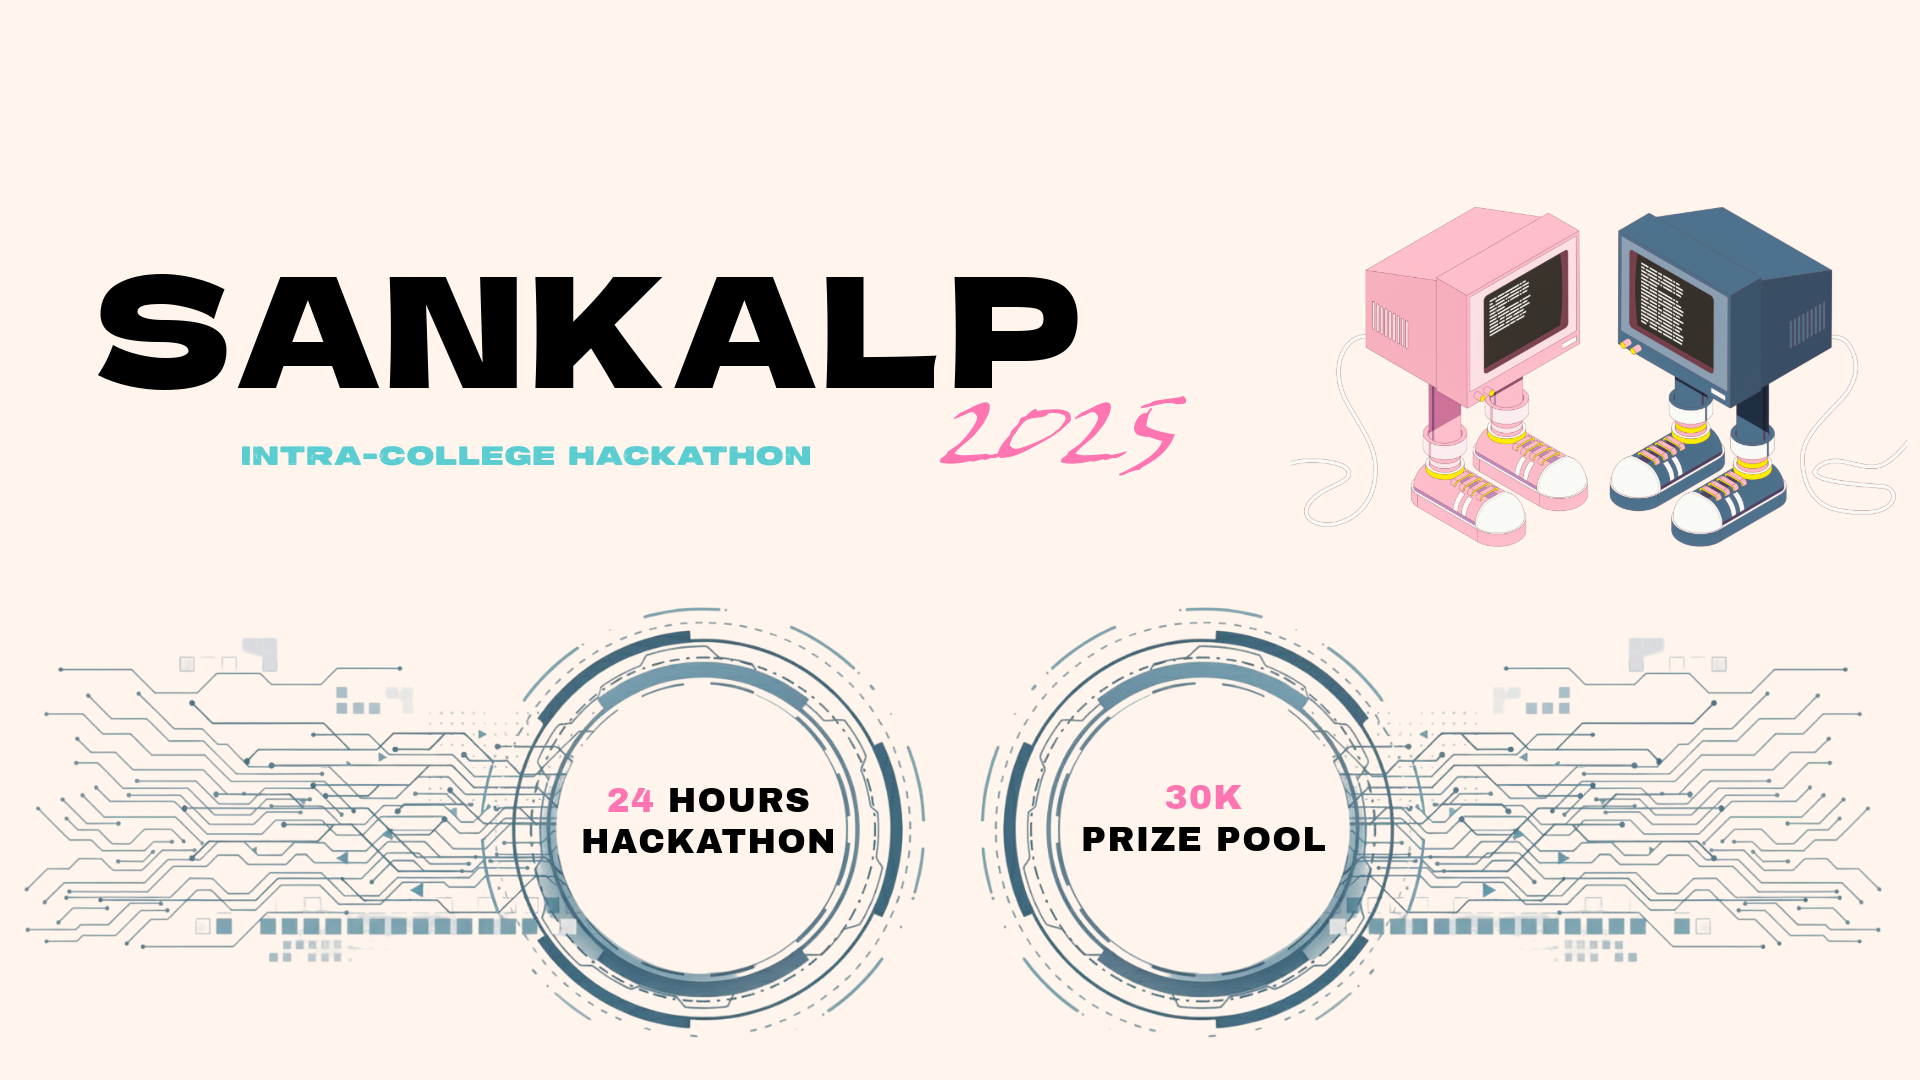
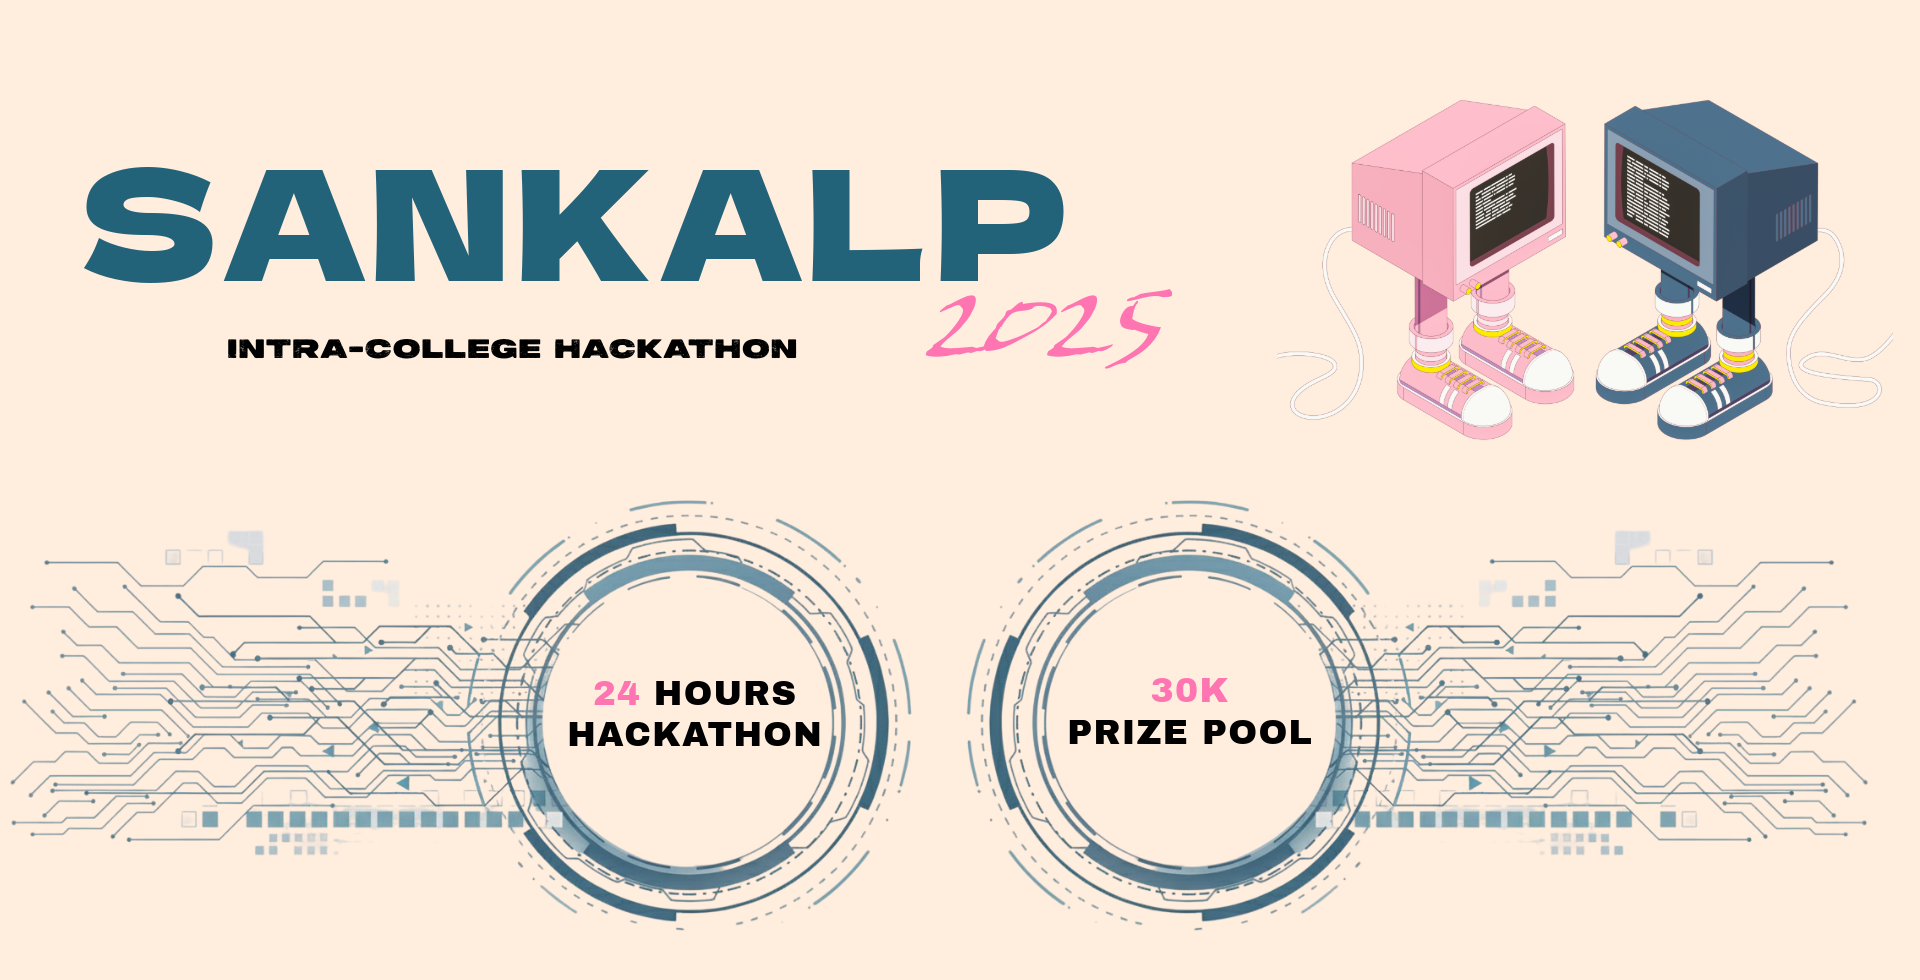
My local changes before merging remote

diff --git a/src/components/landing/about/index.tsx b/src/components/landing/about/index.tsx
@@ -68,8 +68,9 @@ const TextReveal: React.FC = () => {
 
     // SCROLL TRIGGER SETUP
     animeTextContainersRef.current.forEach((container, index) => {
-      const isMobile = window.innerWidth < 768;
-      const scrollMultiplier = 0.5; // Even faster animation for all devices
+  const isMobile = window.innerWidth < 768;
+  // Slower animation for all devices
+  const scrollMultiplier = 1.5;
       ScrollTrigger.create({
         trigger: container,
         pin: container,
@@ -205,8 +206,8 @@ const TextReveal: React.FC = () => {
         ref={aboutRef}
   className="about anime-text-container bg-[#141414] text-black relative w-full h-full min-h-[90vh] lg:min-h-[100vh] p-3 sm:p-4 md:p-6 lg:p-8 overflow-x-hidden"
       >
-        <div className="w-full h-full flex flex-col justify-center items-center text-center rounded-lg sm:rounded-xl md:rounded-2xl lg:rounded-3xl border border-dashed border-[rgb(60,60,60)] p-4 sm:p-6 md:p-8 mt-12 md:mt-16 lg:mt-40 lg:mb-60">
-          <h1 className="text-white mb-2 sm:mb-8 md:mb-12 lg:mb-16 font-black leading-tight px-2 text-[clamp(1.5rem,2vw,1.6rem)] sm:text-[clamp(1.2rem,1.5vw,1.8rem)] md:text-[clamp(1.3rem,2.9vw,3.5rem)]">
+  <div className="w-full h-full flex flex-col justify-center items-center text-center rounded-lg sm:rounded-xl md:rounded-2xl lg:rounded-3xl border border-dashed border-[rgb(60,60,60)] p-4 sm:p-6 md:p-8 mt-0 -mt-8 md:mt-16 lg:mt-40 lg:mb-60">
+          <h1 className="text-white mb-2 sm:mb-8 md:mb-12 lg:mb-16 font-black leading-tight px-2 mt-8 lg:mt-32 text-[clamp(1.5rem,2vw,1.6rem)] sm:text-[clamp(1.2rem,1.5vw,1.8rem)] md:text-[clamp(1.3rem,2.9vw,3.5rem)]">
             About{" "}
             <span className="inline-block px-2 sm:px-3 md:px-4 lg:px-6 bg-pink-300 rounded-lg sm:rounded-xl md:rounded-2xl lg:rounded-3xl border-2 sm:border-3 md:border-4 lg:border-6">
               Sankalp
@@ -238,7 +239,7 @@ const TextReveal: React.FC = () => {
 
 
         >
-          <div className="w-full h-full mx-auto flex flex-col justify-center items-center text-center rounded-lg sm:rounded-xl md:rounded-2xl lg:rounded-xl bg-[#f9ffa5] p-4 sm:p-6 md:p-8 lg:mt-30 lg:mb-30">
+          <div className="w-full h-full mx-auto flex flex-col justify-center items-center text-center rounded-lg sm:rounded-xl md:rounded-2xl lg:rounded-xl bg-[#f9ffa5] p-4 sm:p-6 md:p-8 -mt-8 md:mt-0 lg:mt-30 lg:mb-30">
             <h1 className=" w-full max-w-[95vw] sm:max-w-[90vw] md:max-w-[80vw] lg:max-w-[70vw] xl:max-w-[90vw] text-[#141414] font-black leading-relaxed px-2 sm:px-4 mb-6 sm:mb-8 md:mb-10 lg:mb-12 text-[clamp(1.8rem,3vw,3rem)] sm:text-[clamp(1.2rem,2vw,1.6rem)] md:text-[clamp(2.5rem,4vw,4.5rem)]">
               Playground for bold ideas and creative interfaces.
             </h1>

diff --git a/src/components/landing/info-card/index.tsx b/src/components/landing/info-card/index.tsx
@@ -233,11 +233,12 @@ export default function InfoCard() {
       // PHASE 2: SCROLL TRIGGER CONFIGURATION - Pin section and control animations
       // ============================================================================
       if (heroRef.current) {
+        // Increase the scroll distance for the pin to slow down the card animation (much slower)
         ScrollTrigger.create({
           trigger: heroRef.current, // Element that triggers the animation
           pin: true, // Pin the hero section during scroll
           start: "top top", // Start pinning when top of hero hits top of viewport
-          end: `+=${window.innerHeight * 0.3}`, // Minimal scroll for ultra fast round card animation
+          end: `+=${window.innerHeight * 2.5}`, // Much longer scroll for much slower card animation
           pinSpacing: true, // Maintain scroll space for pinned element
           markers: false, // Disable debug markers in production
           onUpdate: (self) => {
@@ -276,17 +277,19 @@ export default function InfoCard() {
               // ============================================================================
               // SECOND CARD ANIMATION - Slides up to cover first card
               // ============================================================================
+              // Make even slower: animate from 50% to 99% scroll on mobile, 98% on desktop
               if (progress >= 0.5) {
-                // Phase 2: Second card moves from 150% to same position as first (50-100% scroll)
-                const secondCardProgress = (progress - 0.5) / 0.5; // Normalize progress to 0-1
-                const targetY = 40 - mobileOffset; // Same target as first card
+                const animStart = 0.5;
+                const animEnd = isMobile ? 0.99 : 0.98;
+                const animRange = animEnd - animStart;
+                const clampedProgress = Math.min(1, Math.max(0, (progress - animStart) / animRange));
+                const targetY = 40 - mobileOffset;
                 gsap.set(secondCard, {
-                  y: `${150 - (150 - targetY) * secondCardProgress}%`, // Smooth interpolation from 150% to targetY
+                  y: `${150 - (150 - targetY) * clampedProgress}%`,
                 });
               } else {
-                // Phase 1: Second card stays below viewport (0-50% scroll)
                 gsap.set(secondCard, {
-                  y: "150%", // Keep hidden below viewport
+                  y: "150%",
                 });
               }
             }

diff --git a/src/components/landing/hero/index.tsx b/src/components/landing/hero/index.tsx
@@ -219,7 +219,7 @@ const Hero = () => {
         className="hero host-grotesk relative w-screen min-h-0 p-2 flex items-center justify-center text-[#141414]"
       >
         {/* Top Center College Name */}
-          <div className="absolute top-4 left-1/2 -translate-x-[48%] text-center z-50 w-max max-w-full px-2 mt-5">
+          <div className="absolute top-4 left-1/2 -translate-x-[48%] text-center z-50 w-max max-w-full px-2 mt-[0.375rem]">
             <h1
               className={`text-black text-sm sm:text-base md:text-lg lg:text-xl font-semibold tracking-wide leading-tight ${dela.className}`}
             >
@@ -238,22 +238,20 @@ const Hero = () => {
             ============================================================================ */}
         <div
           ref={heroHeaderRef}
-          className="hero-header absolute left-1/2 top-1/2 flex items-center justify-center w-full"
-          style={{ transform: "translate(-50%, -30%)" }}
+          className="hero-header absolute left-0 top-0 w-full h-full mt-[6.25rem]"
+          style={{ height: '100%', width: '100%', zIndex: 10 }}
         >
-          <div className="flex items-center justify-center w-full">
-            <img
-              src="/assets/sankalp2022.png"
-              alt="Sankalp 2025 Logo"
-              className="mx-auto w-auto h-auto"
-              style={{ marginTop: 0 }}
-            />
-          </div>
+          <img
+            src="/assets/sankalp2025.png"
+            alt="Sankalp 2025 Logo"
+            className="w-full h-full object-contain"
+            style={{ display: 'block', maxWidth: '100%', maxHeight: '100%' }}
+          />
         </div>
         {/* Remove the animated text from the hero section and move it below */}
       </section>
       {/* Animated text container now below the hero section */}
-      <div className="w-full flex justify-center items-center mt-24">
+  <div className="w-full flex justify-center items-center mt-8">
         <h1 className="hero-heading animated-text leading-none text-2xl md:text-4xl lg:text-5xl">
           <span className="text-segment text-2xl md:text-4xl lg:text-6xl" style={{opacity: 1}}>Dream. Design. Develop.</span>
           <span className="text-segment text-2xl md:text-4xl lg:text-6xl" style={{opacity: 1}}> 24 hours of nonstop innovation.</span>

diff --git a/src/components/landing/mobile-hero/index.tsx b/src/components/landing/mobile-hero/index.tsx
@@ -16,13 +16,13 @@ const MobileHero = () => {
         {/* Logos - Centered */}
         <div className="flex flex-col items-center justify-center gap-6 mb-10">
           <img
-            className="hackwave-img w-48 md:w-64 -mt-8"
+            className="hackwave-img w-48 md:w-64 -mt-8 mt-8"
             src="/assets/SANKALP.png"
             alt="Sankalp Logo"
           />
           <img
-            className="hackwave-img w-40 md:w-56"
-            src="/assets/illust.png"
+            className="hackwave-img w-40 md:w-56 -mt-8"
+            src="/assets/illust1.png"
             alt="Mascot"
           />
           {/* INTRA-COLLEGE HACKATHON - Bold, after mascot image */}
